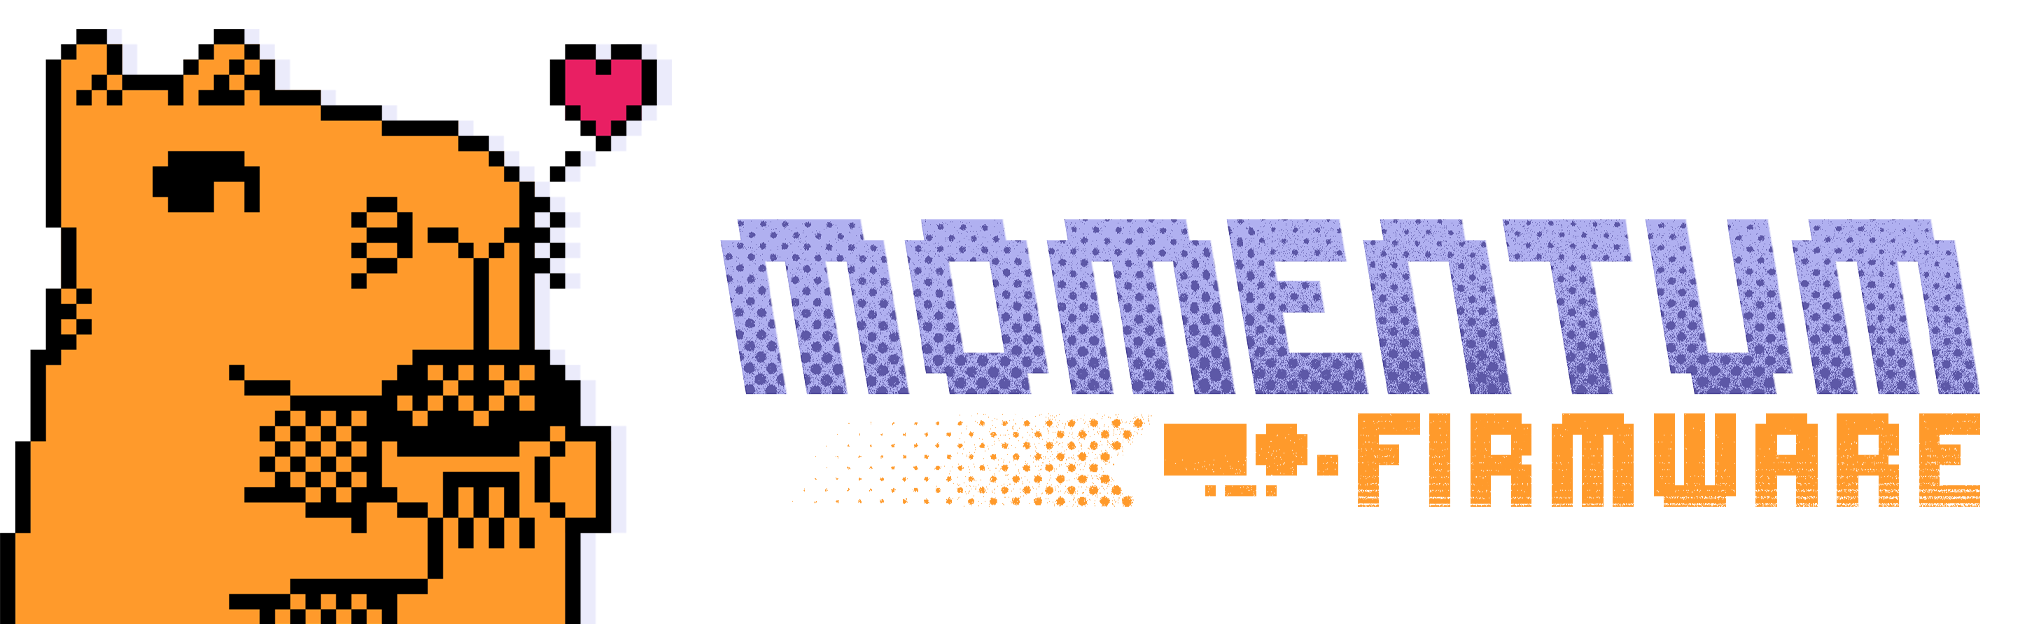
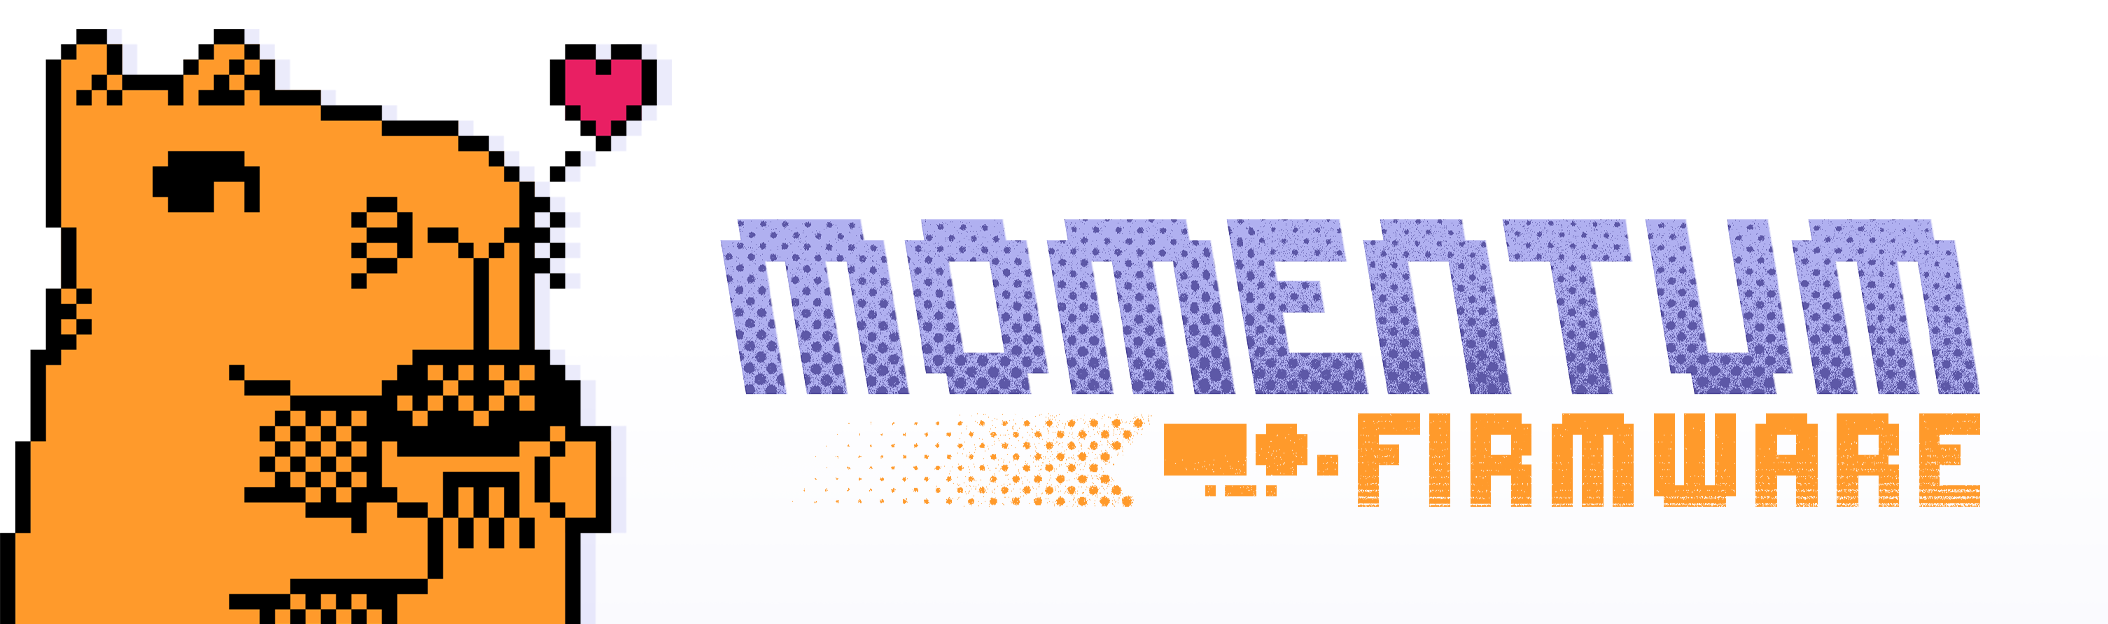
Try 5% gradient, remove dcbadge (still not working)

diff --git a/profile/README.md b/profile/README.md
@@ -8,10 +8,8 @@
     
 \
 \
-<strong><a href="https://momentum-fw.dev">https://momentum-fw.dev</a></strong>&nbsp; · &nbsp;[Install](https://github.com/Next-Flip/Momentum-Firmware?tab=readme-ov-file#Install)&nbsp; · &nbsp;[Features](https://github.com/Next-Flip/Momentum-Firmware#list-of-changes)
+<strong><a href="https://momentum-fw.dev">https://momentum-fw.dev</a></strong>&nbsp; · &nbsp;[Install](https://github.com/Next-Flip/Momentum-Firmware?tab=readme-ov-file#Install)&nbsp; · &nbsp;[Features](https://github.com/Next-Flip/Momentum-Firmware#list-of-changes)&nbsp; · &nbsp;[Discord](https://discord.gg/momentum)
 
-<a target="_blank" href="https://discord.gg/momentum"><img src="https://dcbadge.limes.pink/api/server/momentum" alt="" /></a>
-  
 The goal of this firmware is to constantly push the bounds of what is possible with Flipper Zero, driving the innovation of many new groundbreaking features, while maintaining the easiest and most customizable user experience of any firmware. Fixing bugs promptly and ensuring a stable and compatible system is also of our utmost importance.
 
 ### Firmware & Apps
